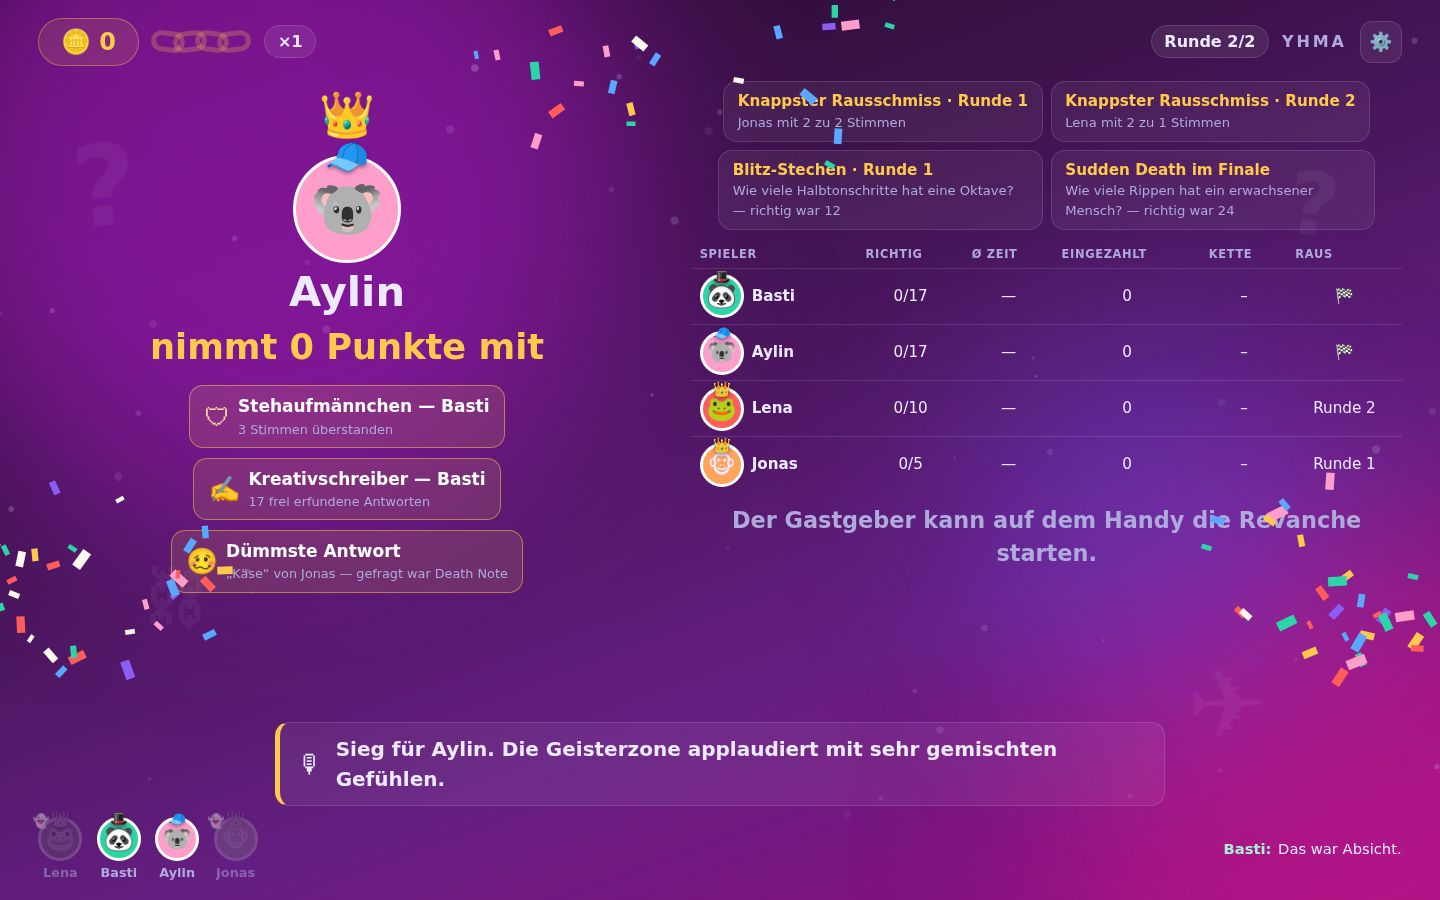
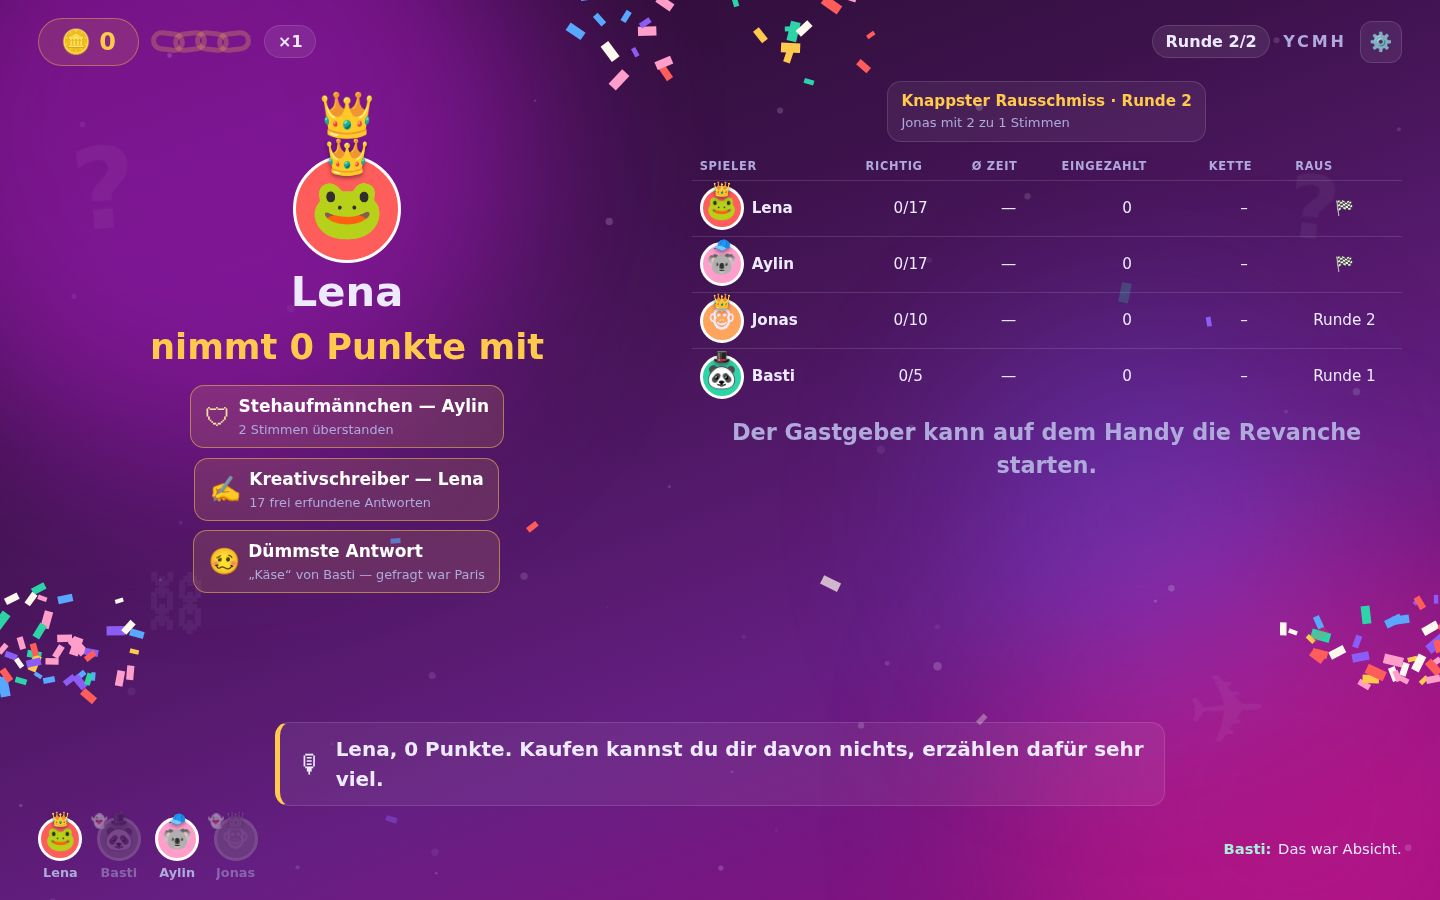
Start the duel recap at the top edge
Six cards plus the score display overran the scene, and a centred column
that overflows clips at the top -- so the last card sat behind the
moderator line. The phase starts at the top now and shows four cards,
with a note that the rest is on the phones.

Claude-Session: https://claude.ai/code/session_01FFf3gRaLyNXhXsXRuMdJNR

diff --git a/public/js/stage.js b/public/js/stage.js
@@ -510,13 +510,17 @@ const BUILDERS = {
 
   /** Alles, was die zwei geschrieben haben — der Lacher zum Schluss. */
   final_recap() {
-    const entries = sortedFinalAnswers().slice(0, 6);
+    // Der Punktestand darüber braucht Platz — vier Karten passen sicher.
+    const entries = sortedFinalAnswers().slice(0, 4);
     const parts = [
       el('h1', { class: 'headline small rise' }, 'Das Duell, Wort für Wort'),
       finalScore(),
       entries.length
         ? el('div', { class: 'shame rise' }, ...entries.map((entry, i) => finalRow(entry, i)))
         : el('p', { class: 'subline rise' }, 'Kein einziger Fehltritt. Auch das gibt es.'),
+      sortedFinalAnswers().length > entries.length
+        ? el('p', { class: 'subline' }, `… und ${sortedFinalAnswers().length - entries.length} weitere auf den Handys.`)
+        : null,
     ];
     scene.append(...parts.filter(Boolean));
   },

diff --git a/public/css/stage.css b/public/css/stage.css
@@ -39,6 +39,9 @@ body[data-phase="results"] .scene { justify-content: flex-start; gap: 0.7rem; pa
 /* Die Rundenbilanz ist der zweite lange Screen. Eine zentrierte Spalte, die
    überläuft, kappt oben — und genau dort steht die Überschrift. */
 body[data-phase="round_end"] .scene { justify-content: flex-start; gap: 0.5rem; padding-top: 0.3rem; }
+/* Die Duell-Nachlese trägt zusätzlich den Punktestand — auch sie beginnt
+   oben, sonst rutscht die letzte Karte hinter die Moderatorenzeile. */
+body[data-phase="final_recap"] .scene { justify-content: flex-start; gap: 0.45rem; padding-top: 0.3rem; }
 body[data-phase="results"] .podium .avatar { --size: clamp(72px, 9vw, 108px); }
 body[data-phase="results"] .crown { font-size: clamp(1.8rem, 3.4vw, 2.8rem); }
 body[data-phase="results"] .headline { font-size: clamp(1.5rem, 3.4vw, 2.6rem); }
